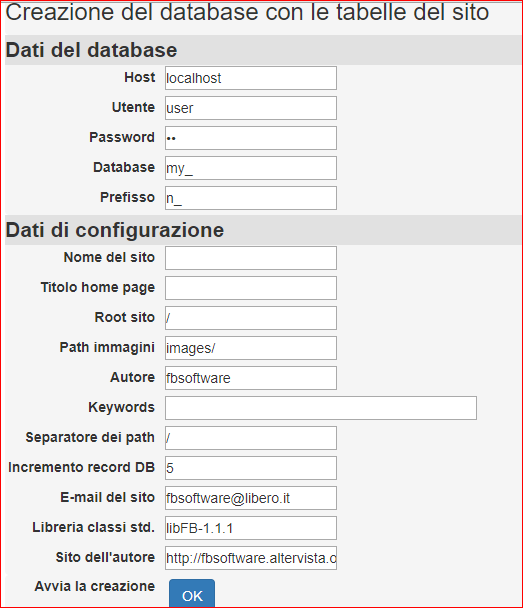
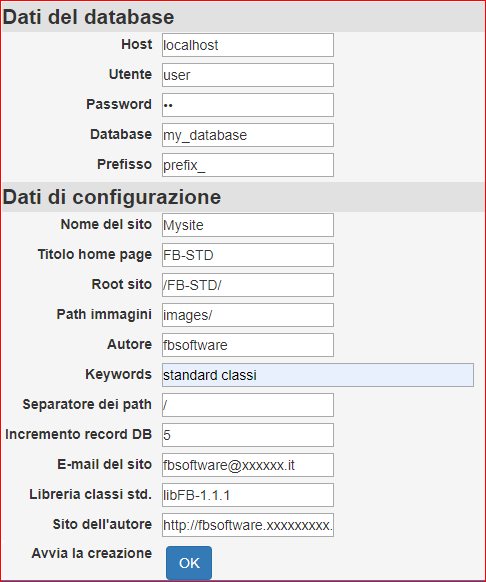
1.0.6
varie

Changed region(s): [[0.0, 0.0, 1.0, 1.0]]

diff --git a/z-demo-input.php b/z-demo-input.php
@@ -1,0 +1,41 @@
+<?php
+?>
+
+<!DOCTYPE HTML>
+<html>
+  <head>
+  <meta http-equiv="content-type" content="text/html; charset=UTF-8">
+  <meta name="generator" content="PSPad editor, www.pspad.com">
+  <title></title>
+  <link rel="stylesheet" href="../css/style.css"  type="text/css" >
+  <link rel="stylesheet" href="../css/stili-custom.css"  type="text/css" >
+  </head>
+  
+  <body>
+<?php
+include_once '../libFB-1.1.1/DB_PDO.php';
+include_once '../libFB-1.1.1/FB.field.php';
+include_once("../bootstrap_link.php");
+<style>
+label	{
+		width: 160px;
+}
+</style>
+<?php
+	echo "<br />";
+
+     echo     "<div class='col-md-6'>";  
+     echo  "<fieldset><legend>Campi di input per forms </legend>";
+	 
+$app = new input(array(0,'input','','Radio button','Campo di tipo Radio button SI-NO','sn'));
+	$input = $app->field();
+$app = new input(array('input','input','','Input','Campo di tipo input text','i'));
+	$input = $app->field();	
+$app = new input(array('faubre','input','','Password','Campo di tipo password','pw'));
+	$input = $app->field();	
+$app = new input(array('01-04-2019','input','','Calendario','Campo di tipo calendario per gestire le date','d1'));
+	$input = $app->field();	
+     echo  "</fieldset>"; 
+     echo "</div>";   // col	
+
+?>

diff --git a/tutorial/demo-input.php b/tutorial/demo-input.php
@@ -1,0 +1,36 @@
+<?php
+require_once('../loadLibraries.php');
+require_once('../loadTemplateAdmin.php');
+require_once("../connectDB.php");
+// DOCTYPE & head
+$app = new Head('Gestione menu');
+$app->openHead();
+require_once("../jquery_link.php");
+require_once("../bootstrap_link.php");
+require_once("../include_head.php");
+require_once('../lingua.php'); 
+$app->closeHead();
+	  ?>
+<style>
+label	{
+		width: 160px;
+}
+</style>
+<?php
+    echo     "<div class='row container well'>";
+     echo     "<div class='col-md-6'>";  
+     echo  "<fieldset><legend>Campi di input per forms </legend>";
+	 
+$app = new input(array(0,'input','','Radio button','Campo di tipo Radio button SI-NO','sn'));
+	$input = $app->field();
+$app = new input(array('input','input','','Input','Campo di tipo input text','i'));
+	$input = $app->field();	
+$app = new input(array('faubre','input','','Password','Campo di tipo password','pw'));
+	$input = $app->field();	
+$app = new input(array('01-04-2019','input','','Calendario','Campo di tipo calendario per gestire le date','d1'));
+	$input = $app->field();	
+     echo  "</fieldset>"; 
+     echo "</div>";   // col	
+	 echo "</div>";   // container	
+
+?>

diff --git a/installa/index.php b/installa/index.php
@@ -8,7 +8,6 @@
    * all'uso anche improprio di FB open template.
 ==============================================================================*/ 
 ?>
-
 <!DOCTYPE HTML>
 <html>
   <head>
@@ -23,7 +22,7 @@
 <?php
 include_once '../libFB-1.1.1/DB_PDO.php';
 include_once '../libFB-1.1.1/FB.field.php';
-include_once("../bootstrap_link.php");
+include_once('../bootstrap_link.php');
 
 // include_once '../transactDB.php';
 echo "<div class='col-md-7'> 
@@ -35,18 +34,18 @@ echo "</div>";
 $host="localhost"; 
 $user="user";  
 $pw="pw";  
-$db="my_";  
-$pref="n_";  
+$db="my_database";  
+$pref="prefix_";  
 $sep="/";
-$e_mail="fbsoftware@libero.it"; 
-$pege_title="";  
-$site="";  
+$e_mail="fbsoftware@xxxxxx.it"; 
+$page_title="FB-STD";  
+$site="Mysite";  
 $dir_imm="images/";  
 $author="fbsoftware";
 $keywords=""; 
-$root="/";
+$root="/FB-STD/";
 $lib="libFB-1.1.1"; 
-$url="http://fbsoftware.altervista.org"; 
+$url="http://fbsoftware.xxxxxxxxx.org"; 
 $incr=5;
 
        

diff --git a/libFB-1.1.1/FB.field.php b/libFB-1.1.1/FB.field.php
@@ -34,7 +34,7 @@ class input
           {  // label non serve per tipo = h/star  
 			echo "<div>";   
               if (($this->tipo !== 'h') && ($this->tipo !== 'star'))
-                  { echo "<label for='$this->campo' data-toggle='tooltip' data-placement='left' title='$this->pch'>$this->label</label>"; }
+                  { echo "<label for='$this->campo' data-toggle='tooltip' data-placement='top' title='$this->pch'>$this->label</label>"; }
  switch ($this->tipo) {
 case 'ck':      // check box
                 echo "<input type='checkbox' id='$this->campo' name='$this->campo'
